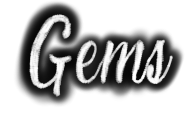
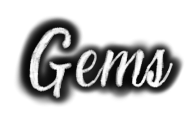
fix: "size gems"

diff --git a/internal/menu/title_layout.go b/internal/menu/title_layout.go
@@ -43,7 +43,7 @@ const (
 
 	// Gems subtitle, aligned to the right edge of Madokita.
 	GemsTitleScale  = 1.5
-	GemsTitleX      = 888.0
-	GemsTitleY      = 255.0
+	GemsTitleX      = 928.0
+	GemsTitleY      = 240.0
 	GemsCosmicSpeed = 12.0
 )
